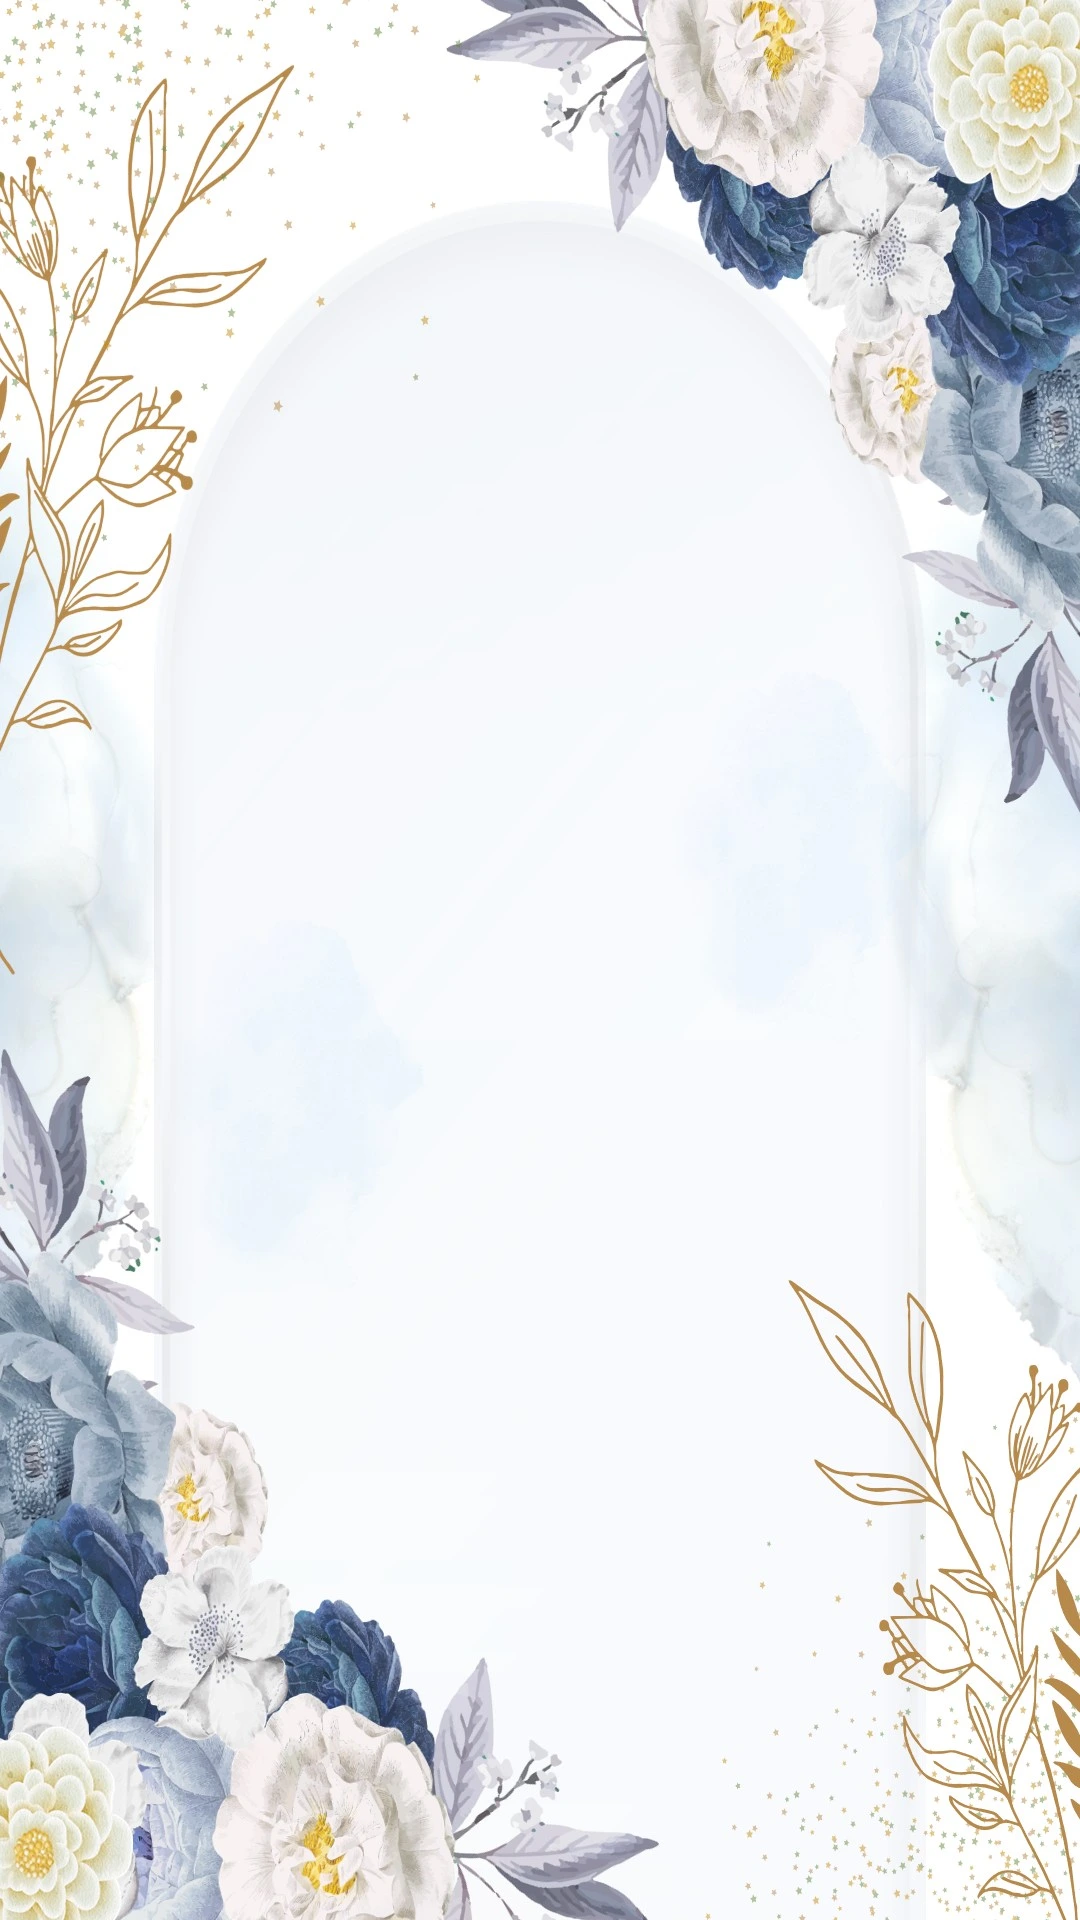
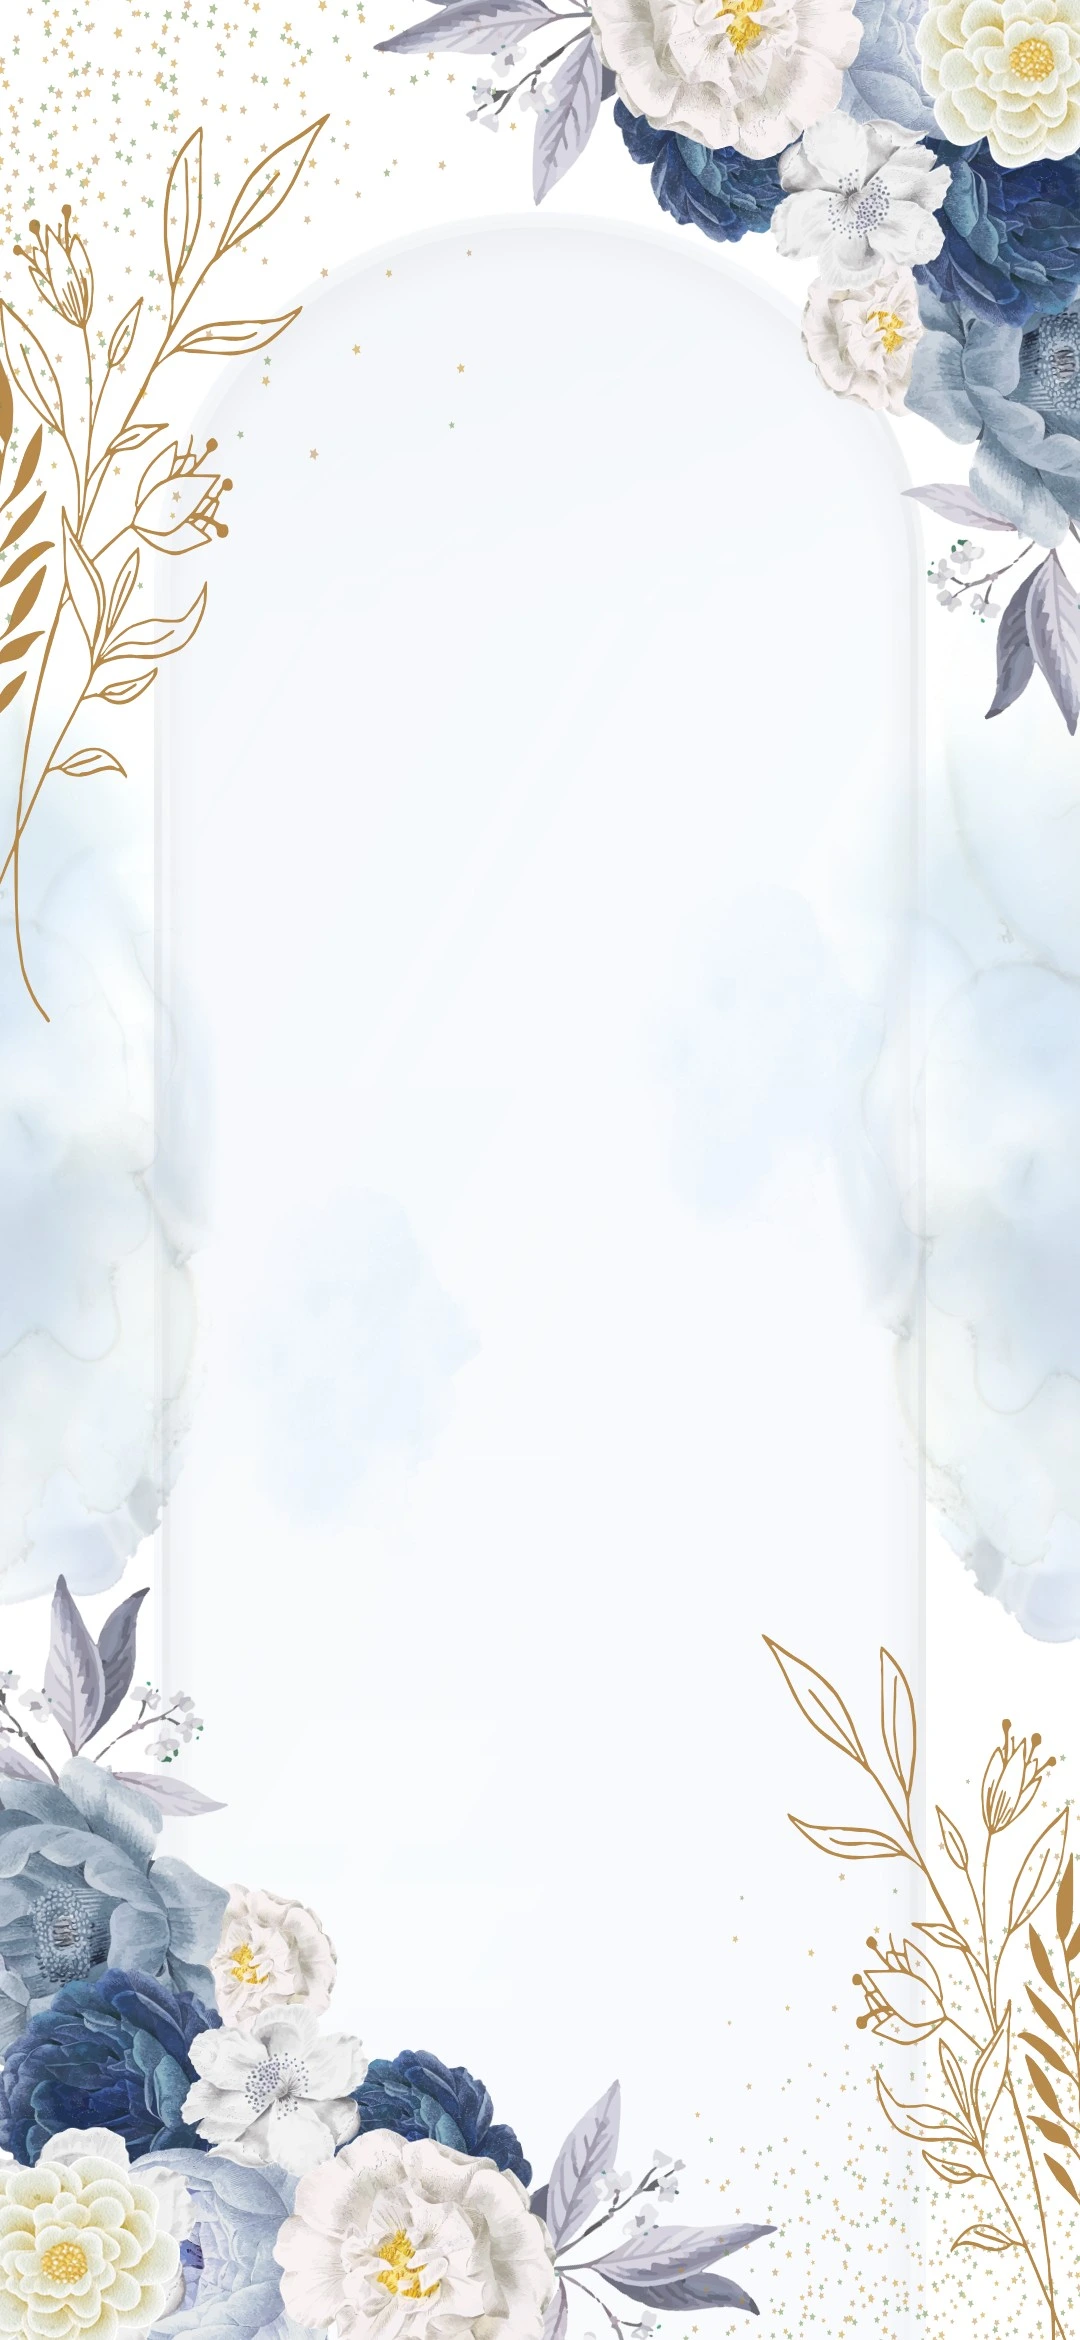
13th commit. Modified index.html & style.css

diff --git a/index.html b/index.html
@@ -92,9 +92,11 @@
 
       <!-- Couple Names -->
       <div class="couple-names-wrapper">
-        <div class="couple-name">Muhammad Ariff</div>
+        <div class="couple-name">Muhammad</div>
+        <div class="couple-name">Ariff</div>
         <div class="couple-ampersand">&</div>
-        <div class="couple-name">Nur Anis Nasuha</div>
+        <div class="couple-name">Nur Anis</div>
+        <div class="couple-name">Nasuha</div>
       </div>
 
       <div class="couple-hashtag">
@@ -281,7 +283,8 @@
 
     <!-- Prayer Footer -->
     <div class="card-section border-bottom-0 pb-5">
-      <div class="p-3 bg-warning-subtle rounded-4 text-dark small fst-italic border border-warning-subtle">
+      <div
+        class="p-3 bg-warning-subtle rounded-4 text-dark small fst-italic border border-warning-subtle overflow-hidden">
         "Ya Allah, berkatilah ikatan perkahwinan ini, limpahkanlah kasih sayang dan rahmah-Mu serta kurniakanlah
         kebahagiaan hingga ke Jannah-Mu."
       </div>
@@ -331,7 +334,7 @@
 
   <!-- 1. Hubungi Modal -->
   <div class="modal fade" id="hubungiModal" tabindex="-1" aria-hidden="true">
-    <div class="modal-dialog modal-dialog-centered modal-sm">
+    <div class="modal-dialog modal-dialog-centered">
       <div class="modal-content">
         <div class="modal-header">
           <h5 class="modal-title"><i class="fas fa-address-book text-gold me-2"></i>Ahli Keluarga</h5>
@@ -402,7 +405,7 @@
 
   <!-- 2. Lokasi Modal -->
   <div class="modal fade" id="lokasiModal" tabindex="-1" aria-hidden="true">
-    <div class="modal-dialog modal-dialog-centered modal-sm">
+    <div class="modal-dialog modal-dialog-centered">
       <div class="modal-content text-center">
         <div class="modal-header">
           <h5 class="modal-title"><i class="fas fa-map-marked-alt text-gold me-2"></i>Aplikasi Navigasi</h5>
@@ -410,9 +413,8 @@
         </div>
         <div class="modal-body">
 
-          <div>
-            <iframe width="250" height="250" style="border:0" loading="lazy" allowfullscreen
-              referrerpolicy="strict-origin-when-cross-origin"
+          <div class="map-embed-wrapper mb-3">
+            <iframe style="border:0" loading="lazy" allowfullscreen referrerpolicy="strict-origin-when-cross-origin"
               src="https://www.google.com/maps/embed/v1/place?key=[GMAPS_API_KEY]&q=Dewan+Oncidium,+Seksyen+31,+40460+Shah+Alam,+Selangor">
             </iframe>
           </div>
@@ -436,7 +438,7 @@
 
   <!-- 4. Kalendar Modal -->
   <div class="modal fade" id="kalendarModal" tabindex="-1" aria-hidden="true">
-    <div class="modal-dialog modal-dialog-centered modal-sm">
+    <div class="modal-dialog modal-dialog-centered">
       <div class="modal-content text-center">
         <div class="modal-header">
           <h5 class="modal-title"><i class="far fa-calendar-check text-gold me-2"></i>Simpan Tarikh</h5>
@@ -461,7 +463,7 @@
               <div class="mini-cal-day-name">Kha</div>
               <div class="mini-cal-day-name">Jum</div>
               <div class="mini-cal-day-name">Sab</div>
-              <div class="mini-cal-day-name">Ahd</div>
+              <div class="mini-cal-day-name">Aha</div>
               <!-- Dec 2026 starts on Tuesday (offset 2) -->
               <div class="mini-cal-day empty"></div>
               <div class="mini-cal-day">1</div>
@@ -503,7 +505,7 @@
           </div>
 
           <div class="d-grid gap-2">
-            <a href="https://calendar.google.com/calendar/render?action=TEMPLATE&text=Walimatulurus+Ariff+%26+Anis&dates=20260530T030000Z/20260530T080000Z&details=Majlis+Perkahwinan+Muhammad+Ariff+%26+Nur+Anis&location=Dewan+Oncidium,+Kota+Kemuning"
+            <a href="https://calendar.google.com/calendar/render?action=TEMPLATE&text=Walimatulurus+Ariff+%26+Anis&dates=20261226T030000Z/20261226T080000Z&details=Majlis+Perkahwinan+Muhammad+Ariff+%26+Nur+Anis+Nasuha&location=Dewan+Oncidium,+Kota+Kemuning"
               target="_blank" class="btn btn-dark btn-sm py-2 rounded-3">
               <i class="fab fa-google me-2"></i> Google Calendar
             </a>
@@ -519,7 +521,7 @@
 
   <!-- 5. Sumbangan Modal (Notice -> QR Reveal) -->
   <div class="modal fade" id="sumbanganModal" tabindex="-1" aria-hidden="true">
-    <div class="modal-dialog modal-dialog-centered modal-sm">
+    <div class="modal-dialog modal-dialog-centered">
       <div class="modal-content">
         <div class="modal-header">
           <h5 class="modal-title"><i class="fas fa-heart text-gold me-2"></i>e-Salam Kaut</h5>

diff --git a/style.css b/style.css
@@ -128,7 +128,7 @@ body.cover-active {
 
 /* Card Glass Frame Container */
 .card-wrapper {
-  width: 80%;
+  width: 85%;
   max-width: 380px;
   margin: 0 auto;
   min-height: 100vh;
@@ -142,6 +142,7 @@ body.cover-active {
   border-left: 1px solid var(--surface-glass-border);
   border-right: 1px solid var(--surface-glass-border);
   box-shadow: var(--shadow-glass);
+  overflow: hidden;
 }
 
 /* ==========================================================================
@@ -392,6 +393,7 @@ text-shadow: 0 2px 4px rgba(0, 0, 0, 0.05);
   border-radius: 16px;
   padding: 20px;
   margin-top: 25px;
+  overflow: hidden;
 }
 
 .tentative-row {
@@ -464,6 +466,7 @@ text-shadow: 0 2px 4px rgba(0, 0, 0, 0.05);
   border: 1px solid var(--accent-gold-glow);
   box-shadow: var(--shadow-glass);
   text-align: left;
+  overflow: hidden;
 }
 
 .form-label {
@@ -689,11 +692,21 @@ text-shadow: 0 2px 4px rgba(0, 0, 0, 0.05);
 /* ==========================================================================
    MODALS (BOTTOM SHEET DRAWER STYLE)
    ========================================================================== */
+
+/* Pin the dialog to a fixed width that matches the card design at ALL screen sizes. */
+.modal-dialog {
+  max-width: 360px !important;
+  width: calc(100% - 32px);
+  margin-left: auto;
+  margin-right: auto;
+}
+
 .modal-content {
   border-radius: 16px 16px 16px 16px;
   border: none;
   background: var(--white);
   box-shadow: 0 -10px 40px rgba(0, 0, 0, 0.15);
+  overflow: hidden;
 }
 
 .modal-header {
@@ -710,6 +723,19 @@ text-shadow: 0 2px 4px rgba(0, 0, 0, 0.05);
 
 .modal-body {
   padding: 24px;
+}
+
+/* Responsive Google Maps embed — fills modal width, clips cleanly */
+.map-embed-wrapper {
+  width: 100%;
+  aspect-ratio: 4 / 3;
+  border-radius: 12px;
+}
+
+.map-embed-wrapper iframe {
+  width: 100%;
+  height: 100%;
+  display: block;
 }
 
 /* Hubungi Contact Card */
